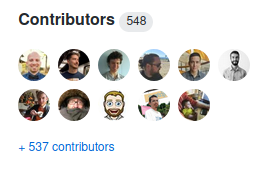
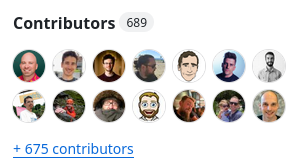
Update for 2025.

diff --git a/index.html b/index.html
@@ -30,8 +30,8 @@
 <body class="skin-blue">
 <div class="reveal">
   <footer>
-    <img class="logo" src="platform/logos/platformsh-logo-black.svg" alt="Platform.sh" />
-    <span class="name">@Crell</span>
+<!--    <img class="logo" src="platform/logos/platformsh-logo-black.svg" alt="Platform.sh" />-->
+    <span class="name">@Crell@phpc.social</span>
   </footer>
   <div class="slides">
 
@@ -40,14 +40,15 @@
     </section>
     <section id="presenter">
       <h2>Larry Garfield</h2>
-      <h2><a href="https://twitter.com/Crell">@Crell</a></h2>
+      <h2><a href="https://phpc.social/@Crell">@Crell@phpc.social</a></h2>
       <div class="layout-col vcentered">
         <a href="https://leanpub.com/thinking-functionally-in-php"><img src="assets/thinking-functionally.png" alt="Larry implements Huggable" style="width: 350px; margin: 0" /></a>
-        <ul style="text-wrap: none">
-          <li>Director of DX, <a href="http://www.platform.sh/">Platform.sh</a></li>
+        <ul style="text-wrap: nowrap">
           <li style="margin-top: 1em;">PHP-FIG Core Committee</li>
-          <li style="margin-top: 1em;">Author, <a href="https://leanpub.com/thinking-functionally-in-php"><em>Thinking Functionally in PHP</em></a></li>
-          <li class="fragment" style="margin-top: 1em">Looking for a new position</li>
+          <li style="margin-top: 1em;">PHP Core Contributor</li>
+          <li style="margin-top: 1em;">General purpose pedant</li>
+          <li style="margin-top: 1em;"><a href="https://bit.ly/fn-php"><em>Thinking Functionally in PHP</em></a></li>
+          <li style="margin-top: 1em;" class="fragment">Seeking new position. :-)</li>
         </ul>
       </div>
     </section>
@@ -254,11 +255,11 @@
       </section>
       <section>
         <h3>Contributors to Laravel</h3>
-        <img src="assets/laravel-contributor-count.png" class="screenshot" alt="548 Contributors to Laravel, as of 18 February 2021" />
+        <img src="assets/laravel-contributor-count.png" class="screenshot" alt="689 Contributors to Laravel, as of 26 November 2025" />
         <p class="fragment" style="margin-top: 1em;">What should we learn from this?</p>
         <aside class="notes">
           <ul>
-            <li>As of 18 February 2021</li>
+            <li>As of 26 November 2025</li>
           </ul>
         </aside>
       </section>
@@ -362,11 +363,17 @@
       -->
       <section>
         <h3>The size of Symfony</h3>
-        <p><img src="assets/symfony-contributor-count.png" class="screenshot" alt="2302 Contributors to Symfony 5, 18 February 2021" /></p>
+        <p><img src="assets/symfony-contributor-count.png" class="screenshot" alt="3253 Contributors to Symfony 8, 26 November 2025" /></p>
         <div class="fragment">
-          <p>Lines of code in Symfony: <span class="fragment" data-countup="1" data-countup-step="1000">549300</span></p>
+          <p>Lines of code in Symfony: <span class="fragment" data-countup="1" data-countup-step="1000">249793</span></p>
         </div>
         <p class="fragment">What should we learn from this?</p>
+        <aside class="notes">
+          <ul>
+            <li>As of 26 November 2025</li>
+            <li>Just the Component directory, not vendor</li>
+          </ul>
+        </aside>
       </section>
     </section>
     <section>
@@ -815,9 +822,7 @@
       <div class="layout-1up-2down">
         <div style="grid-area: top; margin-top: 1em;">
           <h2>Larry Garfield</h2>
-          <h2><a href="http://twitter.com/Crell">@Crell</a></h2>
-          <p>Director of Developer Experience <a href="http://www.platform.sh/">Platform.sh</a></p>
-          <p>Stalk us at <a href="http://twitter.com/Platformsh">@PlatformSH</a></p>
+          <h2><a href="https://phpc.social/@Crell">@Crell@phpc.social</a></h2>
         </div>
         <div style="grid-area: left">
           <h2>All about PHP 8!</h2>
